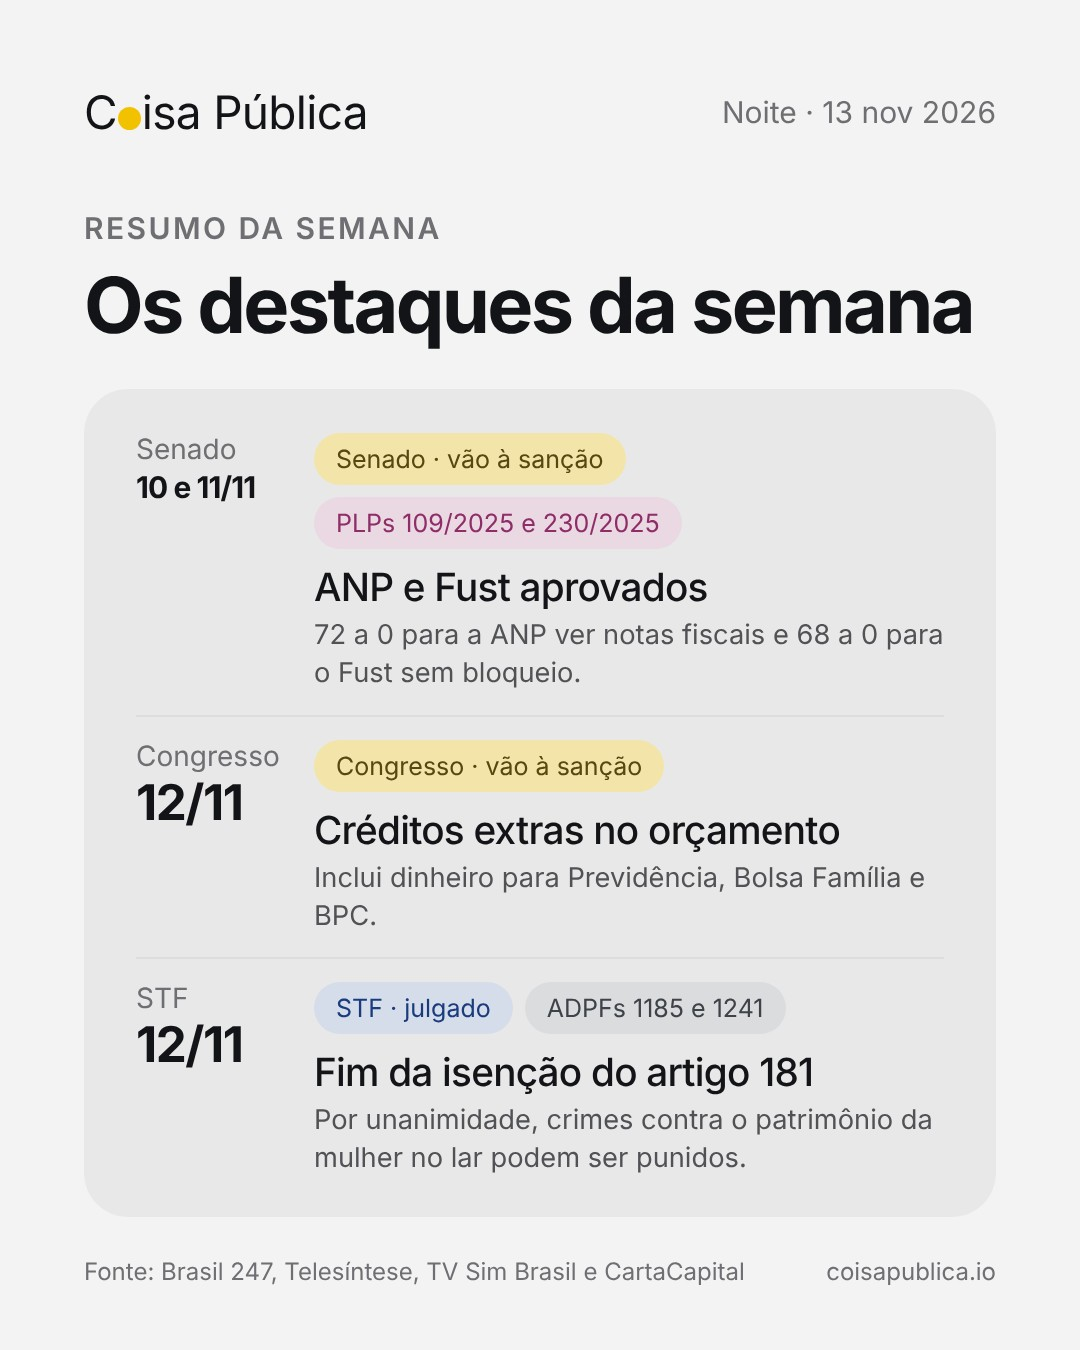
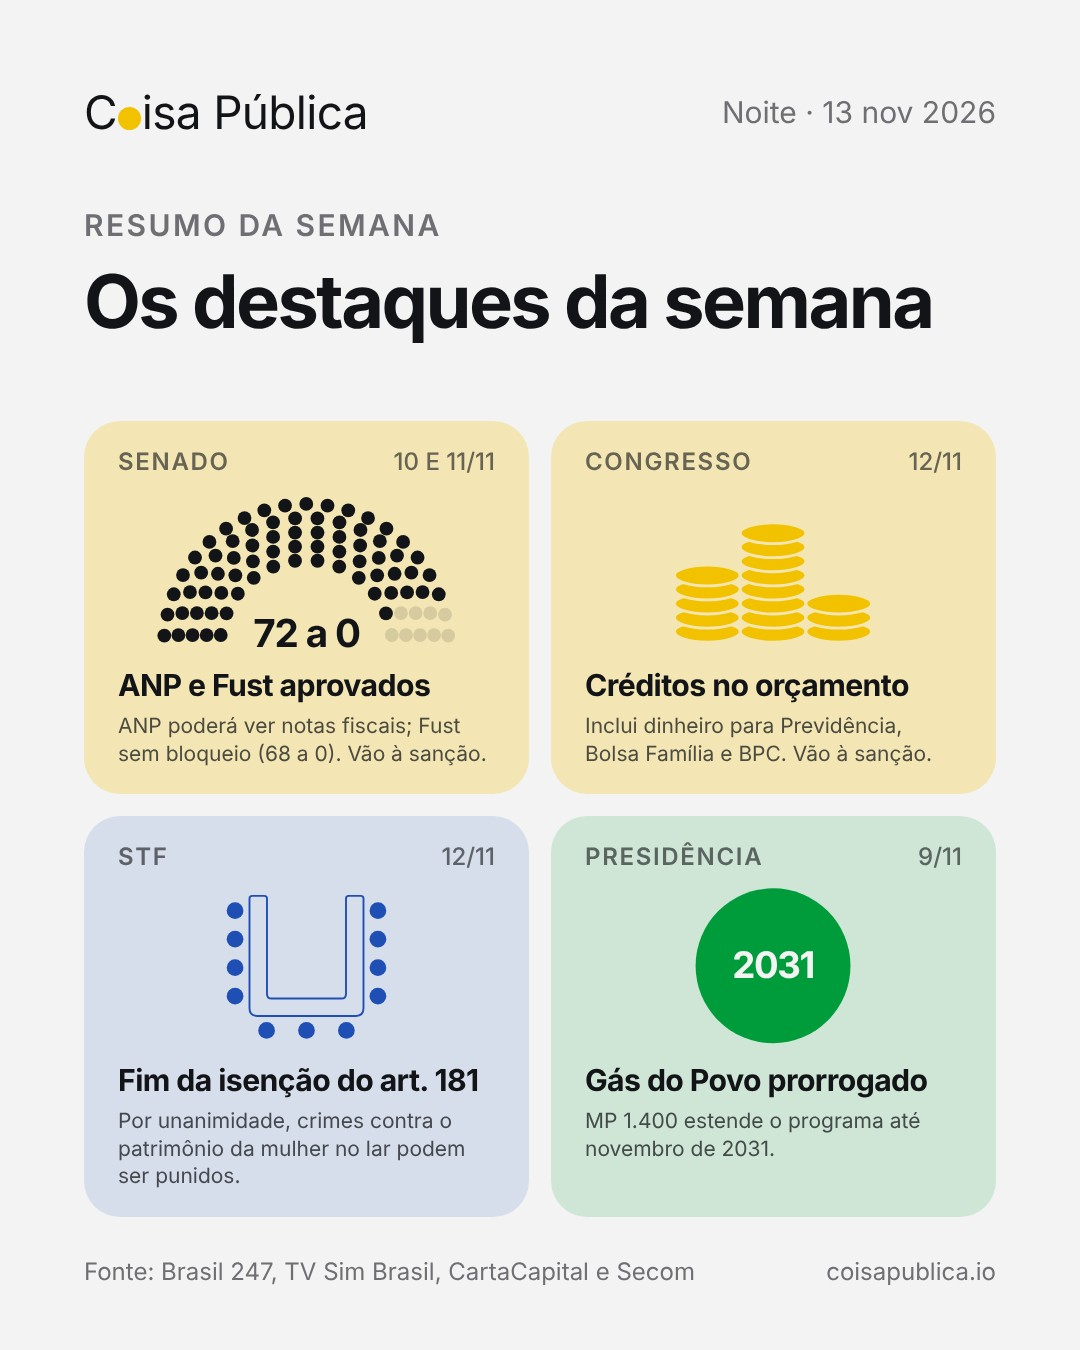
Posts de 13/11: mulheres no Congresso em 2027 e resumo da semana em cartões
Claude-Session: https://claude.ai/code/session_01LhzKyGXwUwWtxrmD3jCHzQ

diff --git a/scripts/posts/render.js b/scripts/posts/render.js
@@ -54,8 +54,34 @@ function hemi(casa, destaque){
   const r = casa === 'senado' ? 19 : 9.5;
   return `<svg viewBox="0 0 720 380" width="760">${seats.map((p,i)=>`<circle cx="${p.x.toFixed(1)}" cy="${p.y.toFixed(1)}" r="${r}" fill="${i < destaque ? 'var(--pc)' : 'var(--gray)'}"/>`).join('')}</svg>`;
 }
+// cores dos partidos, as mesmas do site (PARTY no index.html)
+const PARTY = {PSOL:'#A3238E', Rede:'#14A39A', PCdoB:'#8A1325', PT:'#D6202C', PV:'#3A9A41', PSB:'#F2B705', PDT:'#E46AA2', Avante:'#3CC2D4',
+  Solidariedade:'#C9773A', MDB:'#86B840', PSD:'#F28C1E', Podemos:'#1F8F6A', PSDB:'#2F6DB5', PRD:'#6C7A8C', 'União':'#1AA0D8', PP:'#8FB3E3',
+  Republicanos:'#5446B8', 'Missão':'#E4CF4A', Novo:'#FF6A13', PL:'#2450B0', Cidadania:'#D8336D'};
+const PORDER = ['PSOL','Rede','PCdoB','PT','PV','PSB','PDT','Avante','Solidariedade','Cidadania','MDB','PSD','Podemos','PSDB','PRD','União','PP','Republicanos','Missão','Novo','PL'];
+// semicírculo com uma cor por cadeira (as que sobram em cinza), da esquerda para a direita
+function hemiCores(T, rows, cores, r, R0 = 150){
+  const R1 = 330, cx = 360, cy = 360;
+  const radii = [...Array(rows)].map((_,i)=> R0 + (R1-R0)*i/(rows-1)), sum = radii.reduce((a,b)=>a+b,0);
+  let seats = [];
+  radii.forEach((rr,i)=>{ const n = i===rows-1 ? T - seats.length : Math.round(T*rr/sum); for (let k=0;k<n;k++){ const a = Math.PI*(1-(k+.5)/n); seats.push({x:cx + rr*Math.cos(a), y:cy - rr*Math.sin(a), a}); } });
+  seats = seats.slice(0,T).sort((p,q)=> q.a-p.a);
+  return `<svg viewBox="0 0 720 370" width="100%" style="display:block">${seats.map((p,i)=>`<circle cx="${p.x.toFixed(1)}" cy="${p.y.toFixed(1)}" r="${r}" fill="${cores[i] || 'var(--gray)'}"/>`).join('')}</svg>`;
+}
 function visual(V, poder){
   if (!V) return '';
+  // mulheres: um semicírculo por Casa, com as cadeiras das mulheres pintadas na cor do partido; embaixo, a porcentagem e os partidos
+  if (V.tipo === 'mulheres'){
+    const col = C => {
+      const ps = [...C.partidos].sort((a,b)=> PORDER.indexOf(a[0]) - PORDER.indexOf(b[0]));
+      const cores = ps.flatMap(([p,n])=> Array(n).fill(PARTY[p] || '#8A8B90'));
+      const lista = [...C.partidos].sort((a,b)=> b[1]-a[1] || PORDER.indexOf(a[0]) - PORDER.indexOf(b[0]));
+      return `<div class="mu"><small>${esc(C.titulo)}</small>${hemiCores(C.total, C.casa === 'senado' ? 5 : 11, cores, C.casa === 'senado' ? 19 : 9.5)}
+        <div class="mu-n"><b>${esc(C.pct)}</b><span>${esc(C.l)}</span></div>
+        <div class="mu-p">${lista.map(([p,n])=>`<span><i style="background:${PARTY[p] || '#8A8B90'}"></i>${esc(p)} <b>${n}</b></span>`).join('')}</div></div>`;
+    };
+    return `<div class="mus">${(V.casas || []).map(col).join('')}</div>`;
+  }
   // plenário em faixa única: o mesmo semicírculo do `plenario`, preenchido da esquerda até a porcentagem
   if (V.tipo === 'percentual'){
     const pc = Math.max(0, Math.min(100, +V.valor || 0)), r = 240, L = Math.PI*r, arc = `M${360-r} 360 A${r} ${r} 0 0 1 ${360+r} 360`;
@@ -153,6 +179,28 @@ function html(P, id){
     // poucos elementos: o tema, o título, o desenho, uma frase e a fonte (as etiquetas ficam na legenda)
     return head + `<div class="vis">${mid}</div>`
       + (I.texto ? `<p class="txt">${esc(I.texto)}</p>` : '') + `<div class="foot"><span>Fonte: ${esc(I.fonte || '')}</span><span>coisapublica.io</span></div>`;
+  }
+  // destaques: grade 2x2 de cartões coloridos, cada um na cor do poder, com um desenho, um número grande, o título e uma frase
+  if (I.layout === 'destaques' && I.itens && I.itens.length){
+    const des = x => {
+      const D = x.desenho || {}, pw = PODER[x.poder] || 'leg';
+      if (D.tipo === 'senado' || D.tipo === 'camara'){
+        const T = D.tipo === 'senado' ? 81 : 513, sim = D.sim || 0, nao = D.nao || 0;
+        return hemiCores(T, D.tipo === 'senado' ? 5 : 11, [...Array(T)].map((_,i)=> i < sim ? 'var(--ink)' : i < sim+nao ? '#E24B4A' : 'rgba(18,20,23,.13)'), D.tipo === 'senado' ? 16 : 9.5, 200);
+      }
+      if (D.tipo === 'mesa') return MESA.replace('stroke="var(--gray)"','stroke="var(--tc)"').replace(/fill="var\(--gray\)"/g,'fill="var(--tc)"');
+      if (D.tipo === 'moedas'){ // pilhas de moedas
+        const pil = (x0, n)=> [...Array(n)].map((_,i)=>`<ellipse cx="${x0}" cy="${300-i*30}" rx="70" ry="22" fill="var(--tc)" stroke="var(--tcard)" stroke-width="6"/>`).join('');
+        return `<svg viewBox="0 0 520 340" width="100%">${pil(120,5)}${pil(260,8)}${pil(400,3)}</svg>`;
+      }
+      return `<svg viewBox="0 0 520 340" width="100%" style="font-family:inherit"><circle cx="260" cy="170" r="165" fill="var(--tc)"/>${D.texto ? `<text x="260" y="196" text-anchor="middle" font-size="78" font-weight="700" letter-spacing="-3" fill="#F3F3F3">${esc(D.texto)}</text>` : ''}</svg>`;
+    };
+    const TC = {leg:['#F2C200','color-mix(in srgb,#F2C200 26%,#F3F3F3)'], jud:['#1F4FB5','color-mix(in srgb,#1F4FB5 13%,#F3F3F3)'], exe:['#009C3B','color-mix(in srgb,#009C3B 15%,#F3F3F3)']};
+    card = `<div class="dq">${I.itens.map(x=>{ const pw = PODER[x.poder] || 'leg', [c,bg] = TC[pw];
+      return `<div class="dq-c" style="--tc:${c};--tcard:${bg};background:${bg}"><p class="dq-q">${esc(x.quando||'')}<span>${esc(x.dia||'')}</span></p>
+        <div class="dq-d">${des(x)}${x.num ? `<b class="dq-n">${esc(x.num)}</b>` : ''}</div>
+        <p class="dq-t">${esc(x.titulo)}</p>${x.texto ? `<p class="dq-s">${esc(x.texto)}</p>` : ''}</div>`; }).join('')}</div>`;
+    return head + card + `<div class="foot"><span>Fonte: ${esc(I.fonte || '')}</span><span>coisapublica.io</span></div>`;
   }
   if (I.itens && I.itens.length){
     card = `<div class="card"><div class="list">${I.itens.map(x=>`<div class="it"><div class="d">${esc(x.quando||'')}<b${String(x.dia||'').length > 5 ? ' class="lg"' : ''}>${esc(x.dia||'')}</b></div><div>

diff --git a/scripts/posts/modelo.html b/scripts/posts/modelo.html
@@ -52,6 +52,23 @@ body.cheio.p-exe{--pc:#009C3B;--pci:#F3F3F3}
 .ap svg{display:block;max-width:100%;height:auto}
 .ap-lg{display:flex;flex-direction:column;gap:8px;margin-top:22px;font-size:26px;color:var(--ink)}.ap-lg i{display:inline-block;width:18px;height:18px;border-radius:5px;margin-right:12px;vertical-align:-2px}
 .ap-v{margin:calc(22px * var(--k)) 0 0;padding-top:18px;border-top:3px solid var(--gray);font-size:calc(40px * var(--k));font-weight:700;letter-spacing:-.02em}.ap-v small{display:block;margin-top:4px;font-size:24px;font-weight:400;letter-spacing:0;text-transform:none;color:var(--muted)}
+.mus{display:grid;grid-template-columns:1.45fr 1fr;grid-template-rows:repeat(4,auto);column-gap:56px;width:100%;align-items:start}
+.mu{display:grid;grid-row:span 4;grid-template-rows:subgrid}.mu > svg{align-self:end}
+.mu small{display:block;font-size:26px;color:var(--muted);letter-spacing:.06em;text-transform:uppercase;font-weight:600;margin-bottom:14px}
+.mu-n{margin-top:calc(14px * var(--k));padding-bottom:calc(18px * var(--k));border-bottom:3px solid var(--gray)}
+.mu-n b{display:block;font-size:calc(104px * var(--k));font-weight:700;letter-spacing:-.045em;line-height:1}
+.mu-n span{display:block;margin-top:6px;font-size:26px;color:var(--muted);line-height:1.25}
+.mu-p{display:flex;flex-wrap:wrap;gap:10px 20px;margin-top:calc(18px * var(--k));font-size:23px;color:color-mix(in srgb,var(--ink) 80%,var(--bg))}
+.mu-p span{white-space:nowrap}.mu-p b{font-weight:700;color:var(--ink)}.mu-p i{display:inline-block;width:16px;height:16px;border-radius:50%;margin-right:8px;vertical-align:-1px}
+.dq{margin-top:auto;display:grid;grid-template-columns:1fr 1fr;gap:22px}
+.dq-c{border-radius:36px;padding:calc(30px * var(--k)) 34px calc(32px * var(--k));display:flex;flex-direction:column}
+.dq-q{margin:0;display:flex;justify-content:space-between;font-size:24px;letter-spacing:.07em;text-transform:uppercase;font-weight:600;color:color-mix(in srgb,var(--ink) 62%,var(--tcard))}
+.dq-q span{letter-spacing:0;font-weight:500}
+.dq-d{position:relative;height:calc(190px * var(--k));margin:calc(18px * var(--k)) 0 calc(14px * var(--k));display:flex;align-items:flex-end;justify-content:center}
+.dq-d svg{display:block;height:100%;width:auto;max-width:100%}
+.dq-n{position:absolute;left:0;right:0;bottom:-2px;text-align:center;font-size:calc(46px * var(--k));font-weight:700;letter-spacing:-.03em;line-height:1}
+.dq-t{margin:calc(8px * var(--k)) 0 0;font-size:calc(36px * var(--k));line-height:1.1;letter-spacing:-.02em;font-weight:700}
+.dq-s{margin:10px 0 0;font-size:calc(25px * var(--k));line-height:1.32;color:color-mix(in srgb,var(--ink) 74%,var(--tcard))}
 .perg{flex:1;display:flex;align-items:center}
 .perg p{margin:0;font-size:calc(104px * var(--k));line-height:1.02;letter-spacing:-.04em;font-weight:700}
 .prod{display:flex;align-items:center;gap:36px;padding:34px 0 0;border-top:3px solid var(--gray)}

diff --git a/posts/LEIA.md b/posts/LEIA.md
@@ -64,6 +64,8 @@ Horário de Brasília. A tarefa agendada roda todo dia às 6h37, 11h37 e 17h37 e
 - `imagem.poder`: `leg`, `jud` ou `exe` (cor da bolinha do logo). Em `tags`, `poder` pinta a etiqueta com a cor do poder e `cat` usa a cor do tipo (`mp`, `pec`, `plp`, `pl`, `pdl`, `acao`, `re`).
 - Um assunto só: `tags`, `texto` e, se houver, `placar` (`desenho`: `stf`, `camara`, `senado` ou sem desenho). Lista de assuntos: `itens` (até 3), cada um com `quando`, `dia`, `tags`, `titulo` e `texto` opcional; o `texto` de fora vira uma linha embaixo do título.
 - Post de um assunto só com `imagem.poder` sai no layout de assunto único: fundo #F3F3F3, o tema em texto pequeno com uma bolinha na cor do poder, sem caixa e sem etiquetas (elas ficam na legenda), e um desenho grande no meio: `visual` `{"tipo":"plenario","casa":"camara"|"senado","destaque":308,"numeros":[{"n":"308","l":"dos 513 deputados"}]}` (semicírculo com as cadeiras destacadas) ou `{"tipo":"percentual","valor":60,"rotulo":"três quintos","numeros":[...]}` (o semicírculo do plenário numa faixa única, preenchida até a porcentagem) ou `{"tipo":"data","rotulo":"Julgamento","valor":"4/11","sub":"quarta-feira, no plenário"}` (o símbolo do poder num círculo, ou a mesa do STF com as 11 cadeiras no Judiciário, e, à direita dele, o rótulo, a data ou o número grande e a linha de baixo; o grupo fica centralizado na largura); ou `{"tipo":"distrital"}` (o mesmo estado fictício duas vezes, em hexágonos com uma bolinha por vaga: à esquerda um território só, "Hoje"; à direita cortado em distritos, "Distrital"; `rotulos` muda os textos de baixo) ou `{"tipo":"sistemas"}` (uma tabela de três linhas separadas por fios, proporcional, distrital e misto, com um estado fictício de 10 vagas e três partidos fictícios em laranja, verde-água e roxo: o nome e uma regra curta, o mapa e as cadeiras que resultam; embaixo, a legenda "Exemplo fictício"; o post fica sem `texto`) ou `{"tipo":"aparelhos","grupos":[{"titulo":"Senado","n":"425","l":"celulares","forma":"celular"|"tablet","partes":[[95,"iPhones Pro"],[330,"outros modelos"]],"valor":"R$ 6 milhões","sub":"estimativa"}]}` (uma coluna por grupo, com um desenhinho por aparelho; a primeira parte na cor do poder e o resto em cinza, a legenda e o valor embaixo) ou `{"tipo":"degraus","pontos":[15,14.75,14.5],"valor":"14,5%","sub":"ao ano"}` (uma escada com o número publicado em cada degrau; a base não começa do zero); sem `visual`, entra o `placar`. Texto curto (uma ou duas frases); o resto vai na legenda. Posts com lista (`itens`), como a ordem do dia e os resumos, seguem com a caixa cinza. Para usar o layout antigo, com caixa, num post de um assunto só: `"fundo":"claro"`.
+- `visual` `{"tipo":"mulheres","casas":[{"casa":"camara"|"senado","titulo","total","pct","l","partidos":[["PT",25],...]}]}`: um semicírculo por Casa com as cadeiras pintadas na cor de cada partido (as cores do site), a porcentagem e a lista de partidos embaixo.
+- **Destaques em grade** (bom para os resumos): `"layout":"destaques"` com até 4 `itens`, cada um com `poder`, `quando`, `dia`, `titulo`, `texto`, `num` opcional e `desenho` (`{"tipo":"senado"|"camara","sim":72,"nao":0}`, `{"tipo":"mesa"}`, `{"tipo":"moedas"}` ou `{"tipo":"circulo","texto":"2031"}`): cartões coloridos na cor de cada poder, dois por linha.
 - **Pergunta em destaque** (bom para "Em tramitação"): `"pergunta":"Os municípios podem criar as próprias loterias?"` e `"rodape":{"rotulo":"O STF decide em","valor":"4 de novembro"}`. A pergunta vira o título grande, o `titulo` vai para a linha do tema, e embaixo, depois de um fio, entram o símbolo do poder (a mesa do STF no Judiciário) e a data.
 - Títulos curtos (até ~40 caracteres). Se `render.js` avisar que não coube, encurtar.
 - Exemplos completos em `posts/exemplos/`.
